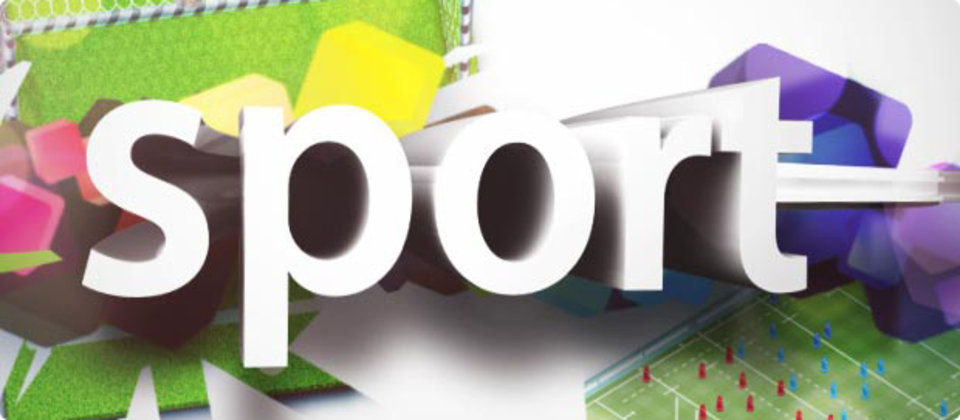
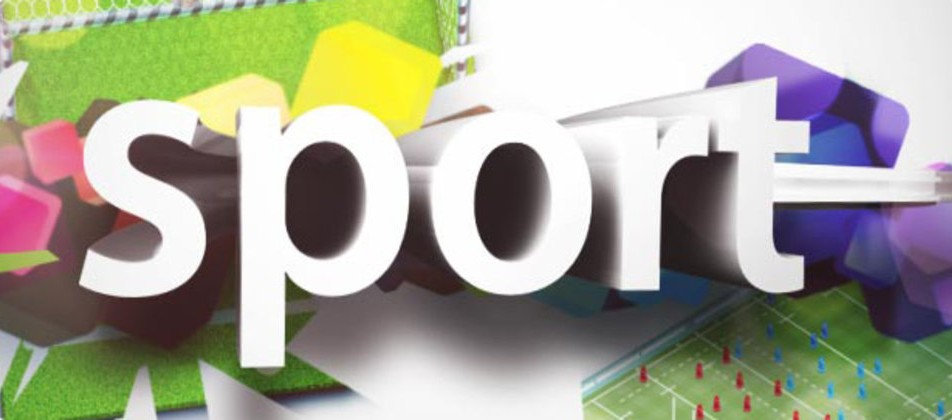
change photo

diff --git a/css/index.css b/css/index.css
@@ -5,6 +5,7 @@
     -webkit-box-pack: justify;
         -ms-flex-pack: justify;
             justify-content: space-between;
+            
 }
 
 .flex-item-heading {
@@ -26,13 +27,15 @@
     -webkit-box-pack: justify;
         -ms-flex-pack: justify;
             justify-content: space-between;
+    background-color: white;
 
 }
 
 .flex-item-section {
     -webkit-box-flex: 0;
-        -ms-flex: 0 0 32%;
-            flex: 0 0 32%;
+        -ms-flex: 0 0 32.5%;
+            flex: 0 0 32.5%;
+           
         
 }
 
@@ -79,14 +82,14 @@ ul { padding: 0;
 .progress-bar-background {
     position: relative;
     width: 100%;
-    background-color: rgb(212,200,212);
+    background-color: rgb(208,225,237);
     border-radius: 20px;
     height: 17px;
 }
 
 .progress-bar-color-html {
     position: absolute;
-    background-color: rgb(161,141,161);
+    background-color: rgb(130,188,232);
     width: 75%;
     height: 100%;
     border-radius: 20px;
@@ -94,7 +97,7 @@ ul { padding: 0;
 
 .progress-bar-color-css {
     position: absolute;
-    background-color: rgb(161,141,161);
+    background-color: rgb(130,188,232);
     width: 67%;
     height: 100%;
     border-radius: 20px;
@@ -102,7 +105,7 @@ ul { padding: 0;
 
 .progress-bar-color-js {
     position: absolute;
-    background-color: rgb(161,141,161);
+    background-color: rgb(130,188,232);
     width: 57%;
     height: 100%;
     border-radius: 20px;
@@ -110,7 +113,7 @@ ul { padding: 0;
 
 .progress-bar-color-jquery {
     position: absolute;
-    background-color: rgb(161,141,161);
+    background-color: rgb(130,188,232);
     width: 55%;
     height: 100%;
     border-radius: 20px;
@@ -118,7 +121,7 @@ ul { padding: 0;
 
 .progress-bar-color-bootstrap {
     position: absolute;
-    background-color: rgb(161,141,161);
+    background-color: rgb(130,188,232);
     width: 62%;
     height: 100%;
     border-radius: 20px;
@@ -147,4 +150,6 @@ ul { padding: 0;
 .form-input {
     width: 95%;
 }
+
+
 

diff --git a/holiday.html b/holiday.html
@@ -19,7 +19,8 @@
         <a class="flex-item-nav  menu" href="sport.html">Sport</a>
         <a class="flex-item-nav menu" href="education.html">Education</a>
     </header>
-    <img class="main-image" src="image/vacation.jpg" alt="vacation">
+    <div class="full-content">
+    <img  src="image/vacation.jpg" alt="vacation">
 
     <section class="flex-container-content">
         <article class="flex-item">
@@ -37,14 +38,14 @@
                 <figcaption class="text-center">Kamyanets-Podolsky</figcaption>
             </figure>
             <figure>
-                <img src="image/hotyn.jpg" alt="Hotyn" class="image">
+                <img  class="image" src="image/hotyn.jpg" alt="Hotyn">
                 <figcaption class="text-center">Hotyn</figcaption>
             </figure>
         </article>
 
     </section>
     <hr>
-    <h3> You can choose your favorite city and show some places</h3>
+    <h3 class="text-center"> You can choose your favorite city and show some places</h3>
     <br>
     <section class="flex-container-content">
         <form class="flex-item-form" method="POST" action="https://formspree.io/y.petryk87@ukr.net">
@@ -93,7 +94,7 @@
         <p class="flex-item-footer">&#174; All rights reserved</p>
     </footer>
     <hr>
-
+</div>
 
 
 

diff --git a/css/holiday.css b/css/holiday.css
@@ -1,3 +1,4 @@
+
 .flex-container {
     display: -webkit-box;
     display: -ms-flexbox;
@@ -26,6 +27,7 @@
     -webkit-box-pack: justify;
         -ms-flex-pack: justify;
             justify-content: space-between;
+            background-color: white;
 }
 
 .flex-item {
@@ -68,13 +70,16 @@ figure {
 }
 
 
-
+h3 {
+    padding-left: 10px;
+   
+}
 
 
 select {
     width: 100%;
     padding-bottom: 10px;
-    background-color: rgb(200,180,200);
+    background-color: rgb(190,220,245);
     margin-bottom: 40px;
 }
 
@@ -85,14 +90,6 @@ fieldset {
     padding: 20px 20px 5px 10px;
 }
 
-
-
-.main-image {
-    border-radius: 10px;
-}
-
-
-
 .image-example {
     opacity: 0.3;
 }
@@ -100,6 +97,7 @@ fieldset {
 .image {
     width: 100%;
     height: 245px;
+   
 }
 
 .subselect {
@@ -109,4 +107,6 @@ fieldset {
 .default {
    
     background-color: grey;
+    opacity: 0.5;
 }
+

diff --git a/css/main-index.css b/css/main-index.css
@@ -1,9 +1,10 @@
+
+
 body {
     background-color: rgb(237,240,245);
     max-width: 900px;
     margin: 0 auto;
     box-sizing: border-box;
-   
 }
 
 header {
@@ -16,8 +17,8 @@ header {
 }
 
 footer {
-    background-color: rgb(225,225,225);
-    border-radius: 10px;
+    background-color: rgb(208,225,237);
+   
 }
 
 footer p {
@@ -34,6 +35,9 @@ legend {
     color: rgb(180,180,180);
 }
 
+.full-content {
+    background-color: white;
+}
 .menu {
     height: 100%;
     text-align: center;
@@ -41,9 +45,10 @@ legend {
     color: blue;
     font-size: 20px;
     text-decoration: none;
+    color: black;
 }
 
-.menu:hover {background-color: grey;
+.menu:hover { background-color: rgb(170,210,237);
 }
 
 .selected {

diff --git a/css/index-sm.css b/css/index-sm.css
@@ -76,28 +76,6 @@ ul { padding: 0;
     margin-bottom: 0;
 }
 
-.progress-bar-background {
-    position: relative;
-    width: 100%;
-    background-color: rgb(212,200,212);
-    border-radius: 20px;
-    height: 17px;
-}
-
-.progress-bar-color {
-    position: absolute;
-    background-color: rgb(161,141,161);
-    width: 50%;
-    height: 100%;
-    border-radius: 20px;
-}
-
-.progress-bar-text {
-    position: relative;
-    bottom: 16px;
-    text-align: center;
-    color: white;
-}
 
 .image {width: 10%;
 }
@@ -115,3 +93,6 @@ ul { padding: 0;
     width: 95%;
 }
 
+.photo {
+  margin: 0 ;
+}

diff --git a/index.html b/index.html
@@ -27,9 +27,10 @@
         <a class="flex-item-nav  menu" href="education.html">Education</a>
        
     </header>
+    <div class="full-content">
     <section class="flex-container-content">
         <section id="progress" class="flex-item-section">
-            <img src="image/yaroslav.jpg" alt="Yaroslav Petryk">
+            <img class="photo" src="image/yaroslav.jpg" alt="Yaroslav Petryk">
             <br>
             <h3>My Skills</h3>
             <article>
@@ -133,5 +134,6 @@
         <p class="flex-item-footer">&#174; All rights reserved</p>
 </footer>
 <hr>
+</div>
 </body>
 </html>

diff --git a/education.html b/education.html
@@ -18,7 +18,8 @@
         <a class="flex-item-nav  menu" href="sport.html">Sport</a>
         <a class="flex-item-nav selected menu" href="education.html">Education</a>
     </header>
-    <img class="main-image" src="image/education.jpg" alt="Educationg">
+    <div class="full-content">
+    <img  src="image/education.jpg" alt="Educationg">
     <section class="flex-container-content">
         <article class="flex-item">
             <h2> English language</h2>
@@ -64,7 +65,7 @@
     </footer>
     <hr>
 
-
+</div>
 
 
 

diff --git a/css/holiday-sm.css b/css/holiday-sm.css
@@ -69,17 +69,13 @@ figure {
 select {
     width: 100%;
     padding-bottom: 10px;
-    background-color: rgb(200,180,200);
+    background-color: rgb(190,220,245);
     margin-bottom: 40px;
 }
 
 fieldset {
     border-color: rgb(180,180,180);
     padding: 20px 20px 5px 10px;
-}
-
-.main-image {
-    border-radius: 10px;
 }
 
 .image-example {
@@ -89,6 +85,8 @@ fieldset {
 .image {
     width: 100%;
     height: 245px;
+    margin-left: -10px;
+    margin-right: 20px;
 }
 
 .subselect {

diff --git a/sport.html b/sport.html
@@ -19,7 +19,8 @@
         <a class="flex-item-nav menu" href="education.html">Education</a>
 
     </header>
-    <img class="main-image" src="image/sport.jpg" alt="Sport">
+    <div class="full-content">
+    <img src="image/sport.jpg" alt="Sport">
     <section class="flex-container-content">
         <article class="flex-item">
             <h2> My favorite sport</h2>
@@ -73,7 +74,7 @@
     </footer>
     <hr>
 
-
+</div>
 
 
 

diff --git a/css/education-sm.css b/css/education-sm.css
@@ -54,10 +54,6 @@ section * {
     opacity: 0.7;
 }
 
-.main-image {
-    border-radius: 10px;
-}
-
 .submit {width: 30%;
     
 }

diff --git a/css/education.css b/css/education.css
@@ -49,9 +49,6 @@ section * {
     opacity: 0.7;
 }
 
-.main-image {
-    border-radius: 10px;
-}
 
 .submit {width: 30%;
     

diff --git a/css/sport-sm.css b/css/sport-sm.css
@@ -65,9 +65,5 @@ figure {
         height: 240px;
 }
 
-.main-image {
-    border-radius: 10px;
-}
-
 .submit {width: 30%;
 }
